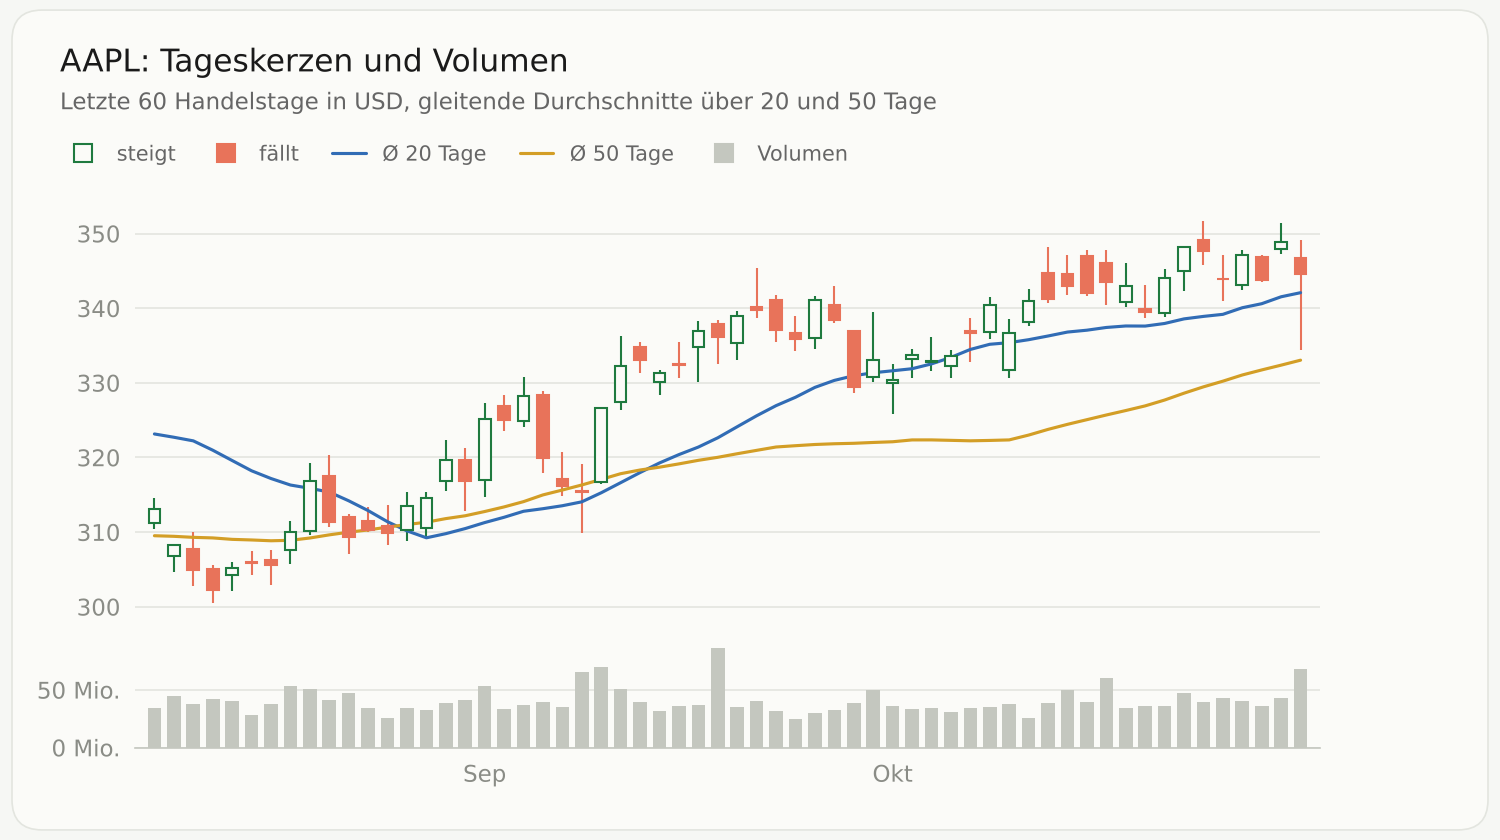
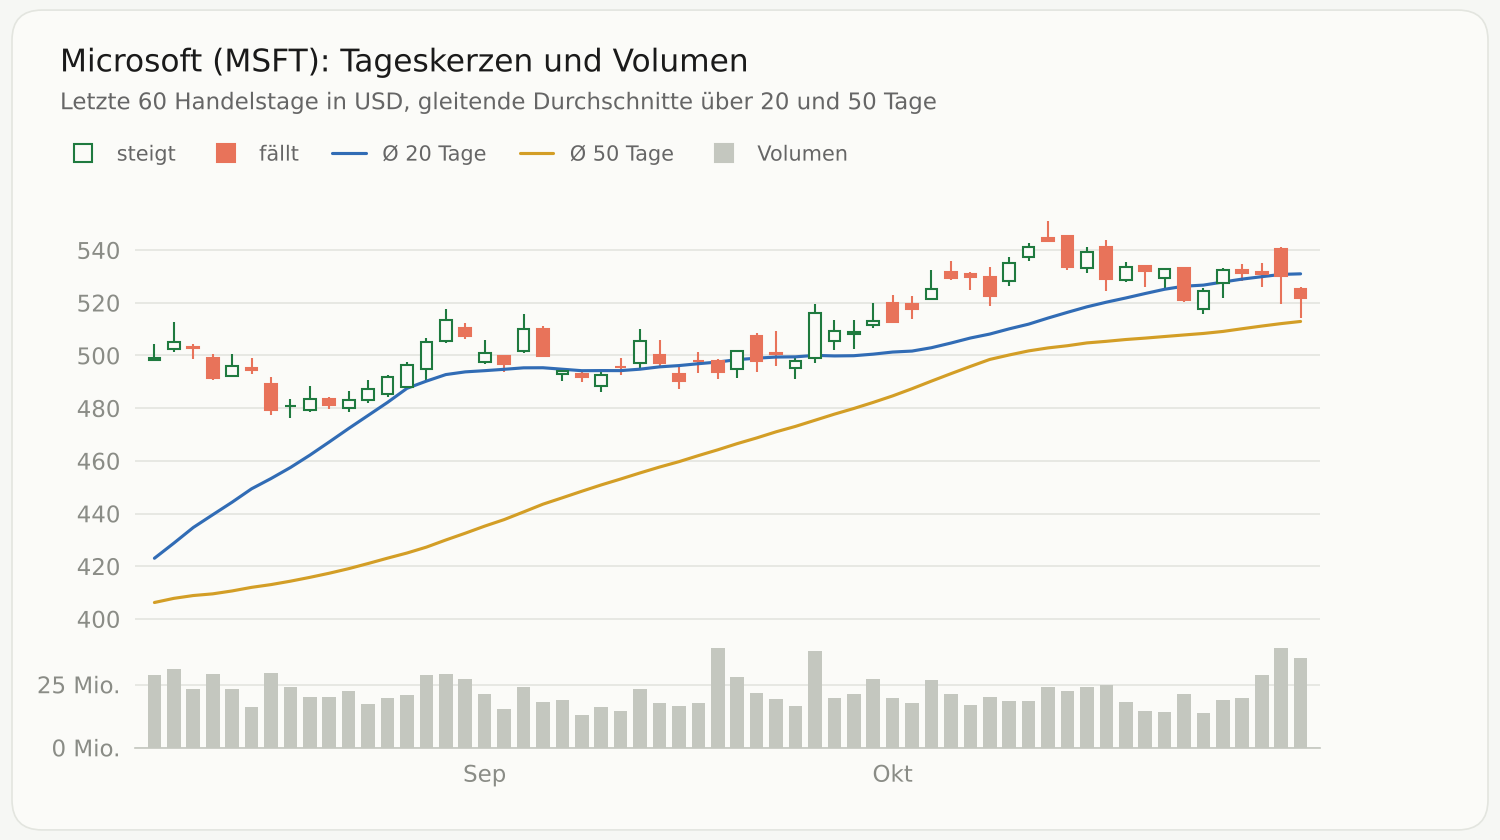
feat: show Microsoft instead of Apple in the candlestick chart (#3)
The user wants the candles for MSFT, the stock of the other charts.

Claude-Session: https://claude.ai/code/session_01XM3y3DsggVgdixr656rMe9

diff --git a/data_exploration/v1_basic/04_plot_candles.py b/data_exploration/v1_basic/04_plot_candles.py
@@ -1,4 +1,4 @@
-"""Plot daily AAPL candles with a volume panel and two moving averages.
+"""Plot daily MSFT candles with a volume panel and two moving averages.
 
 Price and volume sit in two stacked panels with a shared x-axis instead of
 on two y-axes. Rising days are hollow, falling days filled, so the direction
@@ -21,12 +21,12 @@ SMA_COLORS = {20: COLORS[1], 50: COLORS[6]}
 
 
 def load_candles():
-    """Download one year of daily AAPL candles and keep the last ``DAYS``.
+    """Download one year of daily MSFT candles and keep the last ``DAYS``.
 
     :return: DataFrame with ``Open``, ``High``, ``Low``, ``Close``, ``Volume``
         and the moving averages ``SMA 20`` and ``SMA 50``
     """
-    ohlc = yf.Ticker("AAPL").history(period="1y", interval="1d")
+    ohlc = yf.Ticker("MSFT").history(period="1y", interval="1d")
     # Average over the full year before slicing, so both lines start at the left edge.
     for window in SMA_COLORS:
         ohlc[f"SMA {window}"] = ohlc["Close"].rolling(window).mean()
@@ -85,7 +85,9 @@ def plot(ohlc, path):
         Line2D([], [], marker="s", linestyle="", color=FINANCE["down"], label="fällt"),
     ]
     ax.legend(handles=handles + ax.get_legend_handles_labels()[0], loc="upper left")
-    ax.set_title(f"AAPL: Tageskerzen und Volumen, letzte {DAYS} Handelstage")
+    ax.set_title(
+        f"Microsoft (MSFT): Tageskerzen und Volumen, letzte {DAYS} Handelstage"
+    )
     ax.set_ylabel("Kurs in USD")
     ax_vol.set_ylabel("Volumen in Mio.")
     ax_vol.set_xlabel("Datum")

diff --git a/data_exploration/v2_polished/04_plot_candles.py b/data_exploration/v2_polished/04_plot_candles.py
@@ -1,4 +1,4 @@
-"""Plot daily AAPL candles with a volume panel and two moving averages (polished).
+"""Plot daily MSFT candles with a volume panel and two moving averages (polished).
 
 Price and volume sit in two stacked panels with a shared x-axis instead of
 on two y-axes. Rising days are hollow, falling days filled, so the direction
@@ -21,12 +21,12 @@ SMA_COLORS = {20: COLORS[1], 50: COLORS[6]}
 
 
 def load_candles():
-    """Download one year of daily AAPL candles and keep the last ``DAYS``.
+    """Download one year of daily MSFT candles and keep the last ``DAYS``.
 
     :return: DataFrame with ``Open``, ``High``, ``Low``, ``Close``, ``Volume``
         and the moving averages ``SMA 20`` and ``SMA 50``
     """
-    ohlc = yf.Ticker("AAPL").history(period="1y", interval="1d")
+    ohlc = yf.Ticker("MSFT").history(period="1y", interval="1d")
     # Average over the full year before slicing, so both lines start at the left edge.
     for window in SMA_COLORS:
         ohlc[f"SMA {window}"] = ohlc["Close"].rolling(window).mean()
@@ -61,7 +61,7 @@ def plot(ohlc, path):
     :return: None
     """
     fig, (ax, ax_vol) = new_figure(
-        "AAPL: Tageskerzen und Volumen",
+        "Microsoft (MSFT): Tageskerzen und Volumen",
         f"Letzte {DAYS} Handelstage in USD, "
         "gleitende Durchschnitte über 20 und 50 Tage",
         legend_row=True,

diff --git a/data_exploration/v3_dark/04_plot_candles.py b/data_exploration/v3_dark/04_plot_candles.py
@@ -1,4 +1,4 @@
-"""Plot daily AAPL candles with a volume panel and two moving averages (dark).
+"""Plot daily MSFT candles with a volume panel and two moving averages (dark).
 
 Price and volume sit in two stacked panels with a shared x-axis instead of
 on two y-axes. Rising days are hollow, falling days filled, so the direction
@@ -21,12 +21,12 @@ SMA_COLORS = {20: COLORS[1], 50: COLORS[6]}
 
 
 def load_candles():
-    """Download one year of daily AAPL candles and keep the last ``DAYS``.
+    """Download one year of daily MSFT candles and keep the last ``DAYS``.
 
     :return: DataFrame with ``Open``, ``High``, ``Low``, ``Close``, ``Volume``
         and the moving averages ``SMA 20`` and ``SMA 50``
     """
-    ohlc = yf.Ticker("AAPL").history(period="1y", interval="1d")
+    ohlc = yf.Ticker("MSFT").history(period="1y", interval="1d")
     # Average over the full year before slicing, so both lines start at the left edge.
     for window in SMA_COLORS:
         ohlc[f"SMA {window}"] = ohlc["Close"].rolling(window).mean()
@@ -61,7 +61,7 @@ def plot(ohlc, path):
     :return: None
     """
     fig, (ax, ax_vol) = new_figure(
-        "AAPL: Tageskerzen und Volumen",
+        "Microsoft (MSFT): Tageskerzen und Volumen",
         f"Letzte {DAYS} Handelstage in USD, "
         "gleitende Durchschnitte über 20 und 50 Tage",
         legend_row=True,

diff --git a/data_exploration/README.md b/data_exploration/README.md
@@ -24,7 +24,7 @@ folders produce the same plots from the same data:
 | `01_plot_price_eur.py` | `01_price_eur.png`: MSFT price in EUR, year to date |
 | `02_plot_price_earnings.py` | `02_price_earnings.png`: same price with quarterly EPS surprise markers |
 | `03_plot_cashflow.py` | `03_cashflow.png`: operating cash flow, capex, free cash flow per quarter (USD) |
-| `04_plot_candles.py` | `04_candles.png`: AAPL daily candles of the last 60 trading days with SMA 20/50 and a volume panel |
+| `04_plot_candles.py` | `04_candles.png`: MSFT daily candles of the last 60 trading days with SMA 20/50 and a volume panel |
 
 Example: `python data_exploration/v3_dark/01_plot_price_eur.py`
 

diff --git a/HANDOVER.md b/HANDOVER.md
@@ -44,6 +44,7 @@ be built in Matplotlib in `data_exploration/v3_dark/` with its `ci.py`.
   `v3_dark`), not only v3 as the issue says. No PR yet (the integration
   branch does not exist; kickoff pending). `new_figure` in v2/v3 `ci.py` now
   passes extra keywords to `plt.subplots` (needed for stacked panels).
+  The user changed the ticker from AAPL (issue text) to MSFT.
 
 ## Next step
 

diff --git a/plans/2026-11-01_candles.md b/plans/2026-11-01_candles.md
@@ -1,6 +1,6 @@
 # Candlestick chart in all three folders (issue #3)
 
-Goal: add `04_plot_candles.py` → `04_candles.png` (AAPL, last 60 trading
+Goal: add `04_plot_candles.py` → `04_candles.png` (MSFT, last 60 trading
 days, SMA 20/50, volume panel) to `v1_basic/`, `v2_polished/` and
 `v3_dark/`. The issue specifies v3; the user asked for all three folders.
 
